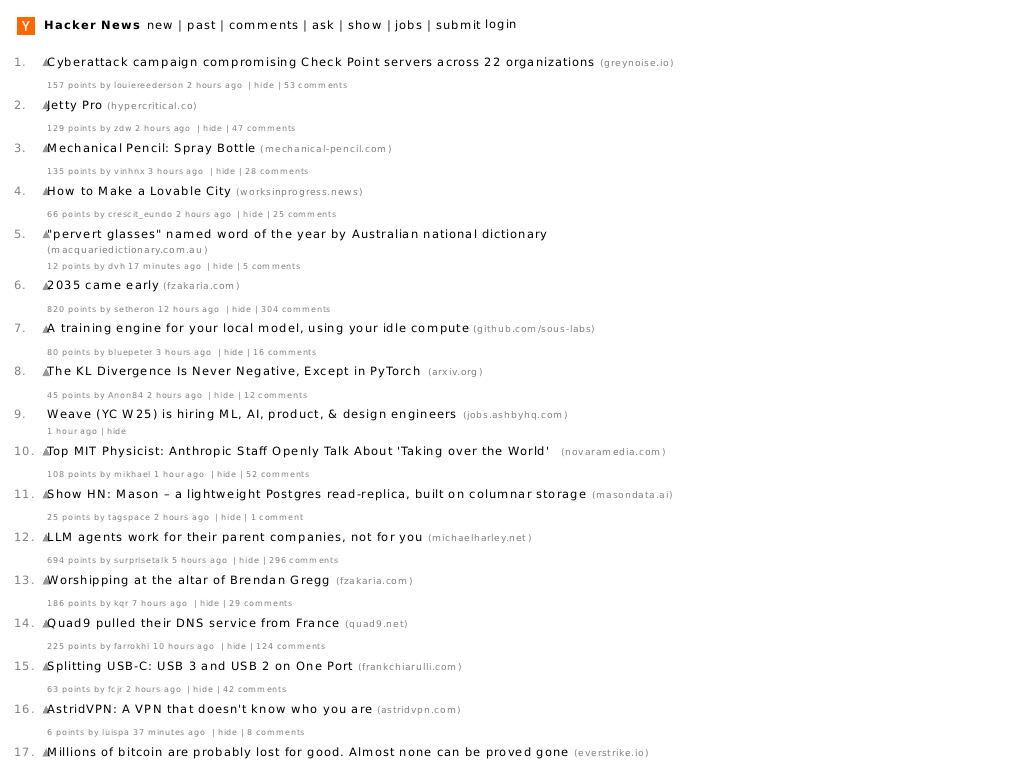
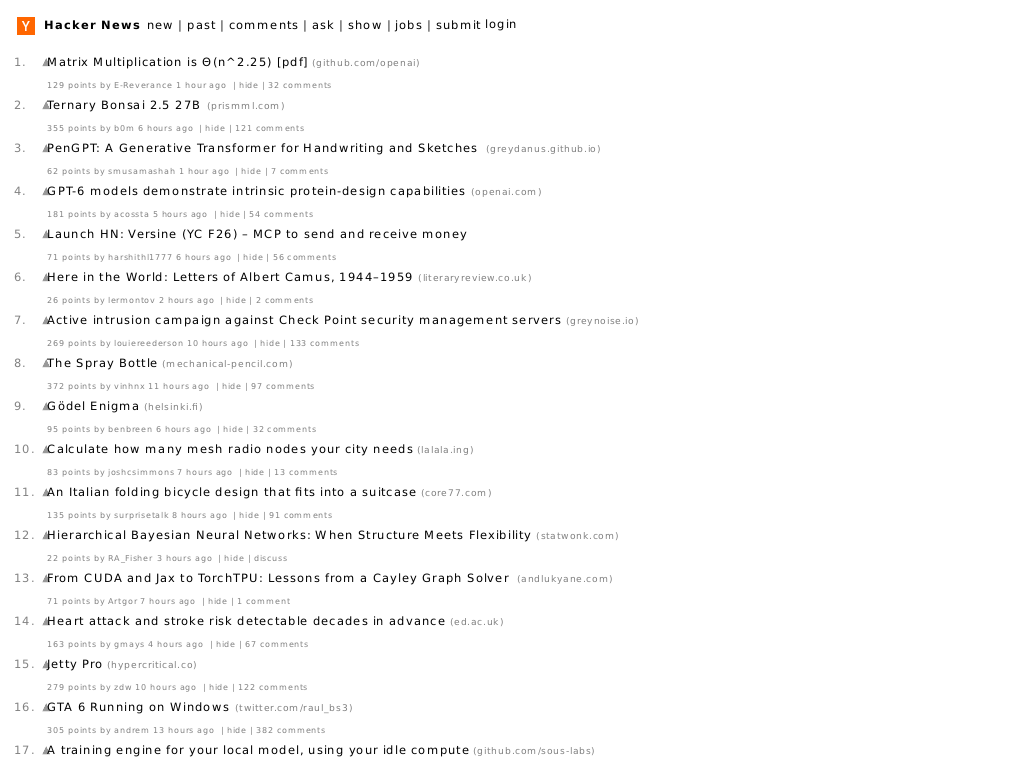
docs(status): remeasure real sites in release mode

Changed region(s): [[0.0312, 0.0625, 0.625, 1.0], [0.5938, 0.625, 0.6562, 0.6562], [0.4375, 0.75, 0.5, 0.7812]]

diff --git a/docs/status/real-sites.html b/docs/status/real-sites.html
@@ -7,7 +7,7 @@ th{background:#f6f8fa} .meta{color:#57606a;font-size:12px}
 .note{background:#fff8c5;border-left:4px solid #d29922;padding:10px 14px;margin:1rem 0}
 </style></head><body>
 <h1>Megi — prueba real de render</h1>
-<p class="meta">Modo: <b>live</b> · capturado el 2026-11-24 · PASS: 1 · DEGRADADO: 3 · PÁGINA EN BLANCO: 0 · ERROR: 0 ·
+<p class="meta">Modo: <b>live</b> · capturado el 2026-11-25 · PASS: 1 · DEGRADADO: 3 · PÁGINA EN BLANCO: 0 · ERROR: 0 ·
 generado por <code>tools/real_site_check.py</code> desde <code>docs/status/real_sites.toml</code>.
 Refrescar con <code>python3 tools/real_site_check.py --live</code> (red) o sin flags (instantáneas).</p>
 <div class="note">Esto es una comprobación de render de extremo a extremo, no una métrica de
@@ -17,6 +17,6 @@ pipeline haya terminado sin error. Las capturas son PNG reales
 producidos por <code>render</code>. Para medir cobertura de capacidades, ver
 <a href="coverage.html">coverage.html</a>.</p>
 <table><tr><th>Sitio</th><th>Resultado</th><th>display_items</th><th>Tiempo</th><th>Avisos</th><th>console_errors</th><th>Issue</th><th>Captura</th></tr>
-<tr><td><b>example.com</b><br><span class='meta'>Referencia mínima: debe verse siempre</span></td><td style='color:#2ea043'><b>PASS</b></td><td>17</td><td>2055.0 ms</td><td>—</td><td>0</td><td>—</td><td><a href='real-sites/example.png'><img src='real-sites/example.png' alt='captura de example.com' style='width:220px;border:1px solid #d0d7de'></a><br><span class='meta'>md5 <code title='md5 completo'>56bd351593b4c1525002360cb0dc6abc</code></span></td></tr><tr><td><b>rust-lang.org</b><br><span class='meta'>CSS/images desde CDN</span></td><td style='color:#d29922'><b>DEGRADADO</b></td><td>427</td><td>8209.7 ms</td><td>performance budget: total 8036 &gt; 3s</td><td>0</td><td>—</td><td><a href='real-sites/rust.png'><img src='real-sites/rust.png' alt='captura de rust-lang.org' style='width:220px;border:1px solid #d0d7de'></a><br><span class='meta'>md5 <code title='md5 completo'>fe5bc97548a9a984ab51ba9c931dbeff</code></span></td></tr><tr><td><b>es.wikipedia.org/wiki/Rust</b><br><span class='meta'>Solapes conocidos en la UI Vector</span></td><td style='color:#d29922'><b>DEGRADADO</b></td><td>421</td><td>1926.7 ms</td><td>performance budget: styles_pre_script 407 ms &gt; 200ms<br>performance budget: images 589 ms &gt; 500ms</td><td>0</td><td><a href="https://github.com/juanpimg/Megi/issues/1013">#1013</a></td><td><a href='real-sites/wikipedia.png'><img src='real-sites/wikipedia.png' alt='captura de es.wikipedia.org/wiki/Rust' style='width:220px;border:1px solid #d0d7de'></a><br><span class='meta'>md5 <code title='md5 completo'>d648a7778f73ad207428bb5870272875</code></span></td></tr><tr><td><b>news.ycombinator.com</b><br><span class='meta'>Históricamente colapsa a página en blanco (&lt;center&gt;/&lt;table&gt;)</span></td><td style='color:#d29922'><b>DEGRADADO</b></td><td>2807</td><td>3181.2 ms</td><td>performance budget: styles_pre_script 766 ms &gt; 200ms<br>performance budget: images 768 ms &gt; 500ms</td><td>0</td><td><a href="https://github.com/juanpimg/Megi/issues/1011">#1011</a></td><td><a href='real-sites/hn.png'><img src='real-sites/hn.png' alt='captura de news.ycombinator.com' style='width:220px;border:1px solid #d0d7de'></a><br><span class='meta'>md5 <code title='md5 completo'>15712139d9f24bfc56349e2d1bbe2a7e</code></span></td></tr></table>
+<tr><td><b>example.com</b><br><span class='meta'>Referencia mínima: debe verse siempre</span></td><td style='color:#2ea043'><b>PASS</b></td><td>17</td><td>1125.6 ms</td><td>—</td><td>0</td><td>—</td><td><a href='real-sites/example.png'><img src='real-sites/example.png' alt='captura de example.com' style='width:220px;border:1px solid #d0d7de'></a><br><span class='meta'>md5 <code title='md5 completo'>56bd351593b4c1525002360cb0dc6abc</code></span></td></tr><tr><td><b>rust-lang.org</b><br><span class='meta'>CSS/images desde CDN</span></td><td style='color:#d29922'><b>DEGRADADO</b></td><td>427</td><td>9591.7 ms</td><td>performance budget: total 9581 &gt; 3s<br>performance budget: styles_pre_script 372 ms &gt; 200ms</td><td>0</td><td>—</td><td><a href='real-sites/rust.png'><img src='real-sites/rust.png' alt='captura de rust-lang.org' style='width:220px;border:1px solid #d0d7de'></a><br><span class='meta'>md5 <code title='md5 completo'>fe5bc97548a9a984ab51ba9c931dbeff</code></span></td></tr><tr><td><b>es.wikipedia.org/wiki/Rust</b><br><span class='meta'>Solapes conocidos en la UI Vector</span></td><td style='color:#d29922'><b>DEGRADADO</b></td><td>421</td><td>1170.3 ms</td><td>performance budget: styles_pre_script 304 ms &gt; 200ms<br>performance budget: images 537 ms &gt; 500ms</td><td>0</td><td><a href="https://github.com/juanpimg/Megi/issues/1013">#1013</a></td><td><a href='real-sites/wikipedia.png'><img src='real-sites/wikipedia.png' alt='captura de es.wikipedia.org/wiki/Rust' style='width:220px;border:1px solid #d0d7de'></a><br><span class='meta'>md5 <code title='md5 completo'>d648a7778f73ad207428bb5870272875</code></span></td></tr><tr><td><b>news.ycombinator.com</b><br><span class='meta'>Históricamente colapsa a página en blanco (&lt;center&gt;/&lt;table&gt;)</span></td><td style='color:#d29922'><b>DEGRADADO</b></td><td>2758</td><td>2725.0 ms</td><td>performance budget: styles_pre_script 742 ms &gt; 200ms<br>performance budget: images 728 ms &gt; 500ms</td><td>0</td><td><a href="https://github.com/juanpimg/Megi/issues/1011">#1011</a></td><td><a href='real-sites/hn.png'><img src='real-sites/hn.png' alt='captura de news.ycombinator.com' style='width:220px;border:1px solid #d0d7de'></a><br><span class='meta'>md5 <code title='md5 completo'>840fb575b4dd180164901c2a92d02573</code></span></td></tr></table>
 <p class="meta">Datos: <a href="real-sites.json">real-sites.json</a></p>
 </body></html>
